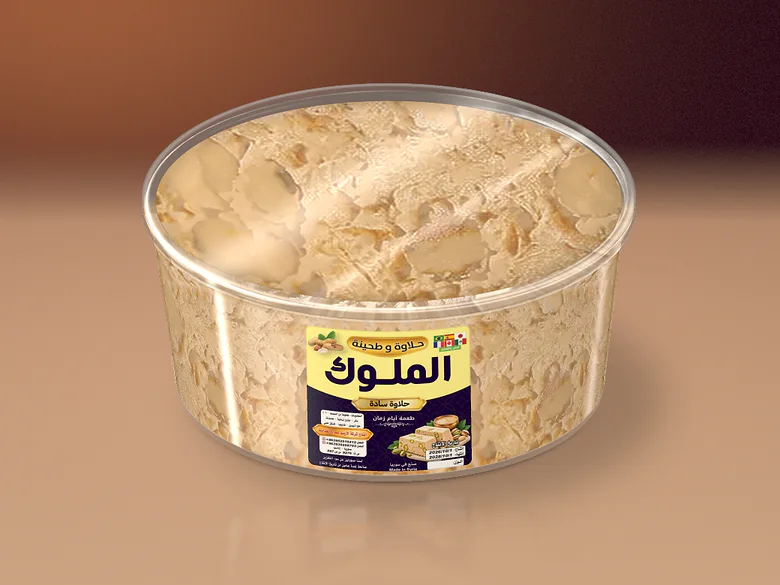
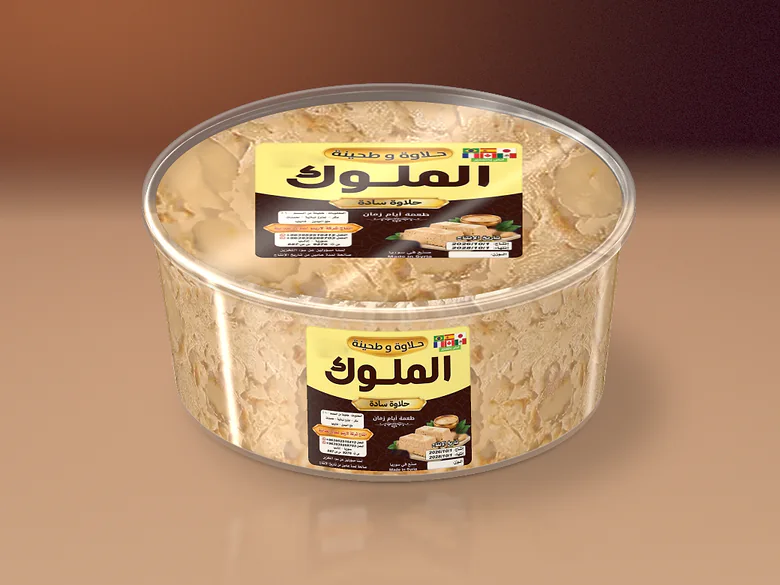
Lid labels, a brown plain Al-Molouk label, and "طحينة" on the tahini jar
- Sealed tubs (Al-Molouk peanut and plain) carry the square label on the
  clear lid too, laid flat in the lid's perspective with the lid's light
  and a laminate sheen, top edge to the back so it reads from the front.
- Plain Al-Molouk label: new chocolate-brown colour (tahini/sesame tone,
  distinct from Larinoo green and Al-Molouk navy); peanut picture removed
  from the corner; "- فستق حلبي" dropped from the printed ingredients;
  pistachios removed from the halva picture.
- Tahini jar: badge text "حلاوة و طحينة" replaced by "طحينة" in the same
  lettering style (dark fill, white outline), badge shape kept.
- Group gallery image rebuilt; alt texts updated.

Claude-Session: https://claude.ai/code/session_018VEN59gGZGc4vHCjc4ytEc

Changed region(s): [[0.3077, 0.2462, 0.6769, 0.4615], [0.4, 0.5538, 0.6154, 0.8]]

diff --git a/index.html b/index.html
@@ -257,7 +257,7 @@
           </article>
           <article class="product-card">
             <div class="product-card__media">
-              <img src="/assets/images/larino-tub-molouk-1040w.webp" srcset="/assets/images/larino-tub-molouk-520w.webp 520w, /assets/images/larino-tub-molouk-780w.webp 780w, /assets/images/larino-tub-molouk-1040w.webp 1040w" sizes="(min-width: 1280px) 598px, (min-width: 640px) 47vw, 100vw" width="1040" height="780" loading="lazy" decoding="async" alt="علبة شفافة مغلقة من حلاوة الملوك بالفستق السوداني وعليها ملصق الملوك">
+              <img src="/assets/images/larino-tub-molouk-1040w.webp" srcset="/assets/images/larino-tub-molouk-520w.webp 520w, /assets/images/larino-tub-molouk-780w.webp 780w, /assets/images/larino-tub-molouk-1040w.webp 1040w" sizes="(min-width: 1280px) 598px, (min-width: 640px) 47vw, 100vw" width="1040" height="780" loading="lazy" decoding="async" alt="علبة شفافة مغلقة من حلاوة الملوك بالفستق السوداني وعلى غطائها وجانبها ملصق الملوك">
             </div>
             <div class="product-card__body">
               <p class="product-card__category">علامة الملوك</p>
@@ -277,14 +277,14 @@
                 data-storage="يُحفظ في مكان بارد وجاف بعيداً عن أشعة الشمس ويُغلق جيداً بعد الفتح، وهو صالح لمدة عامين من تاريخ الإنتاج"
                 data-src="/assets/images/larino-tub-molouk-1040w.webp"
                 data-srcset="/assets/images/larino-tub-molouk-520w.webp 520w, /assets/images/larino-tub-molouk-780w.webp 780w, /assets/images/larino-tub-molouk-1040w.webp 1040w"
-                data-alt="علبة شفافة مغلقة من حلاوة الملوك بالفستق السوداني وعليها ملصق الملوك">
+                data-alt="علبة شفافة مغلقة من حلاوة الملوك بالفستق السوداني وعلى غطائها وجانبها ملصق الملوك">
                 تفاصيل المنتج <svg class="ic ic--16" aria-hidden="true"><use href="#i-arrow-left"/></svg>
               </button>
             </div>
           </article>
           <article class="product-card">
             <div class="product-card__media">
-              <img src="/assets/images/larino-tub-molouk-plain-1040w.webp" srcset="/assets/images/larino-tub-molouk-plain-520w.webp 520w, /assets/images/larino-tub-molouk-plain-780w.webp 780w, /assets/images/larino-tub-molouk-plain-1040w.webp 1040w" sizes="(min-width: 1280px) 598px, (min-width: 640px) 47vw, 100vw" width="1040" height="780" loading="lazy" decoding="async" alt="علبة شفافة مغلقة من حلاوة الملوك السادة وعليها ملصق الملوك">
+              <img src="/assets/images/larino-tub-molouk-plain-1040w.webp" srcset="/assets/images/larino-tub-molouk-plain-520w.webp 520w, /assets/images/larino-tub-molouk-plain-780w.webp 780w, /assets/images/larino-tub-molouk-plain-1040w.webp 1040w" sizes="(min-width: 1280px) 598px, (min-width: 640px) 47vw, 100vw" width="1040" height="780" loading="lazy" decoding="async" alt="علبة شفافة مغلقة من حلاوة الملوك السادة وعلى غطائها وجانبها ملصق الملوك البني">
             </div>
             <div class="product-card__body">
               <p class="product-card__category">علامة الملوك</p>
@@ -304,14 +304,14 @@
                 data-storage="يُحفظ في مكان بارد وجاف بعيداً عن أشعة الشمس ويُغلق جيداً بعد الفتح، وهو صالح لمدة عامين من تاريخ الإنتاج"
                 data-src="/assets/images/larino-tub-molouk-plain-1040w.webp"
                 data-srcset="/assets/images/larino-tub-molouk-plain-520w.webp 520w, /assets/images/larino-tub-molouk-plain-780w.webp 780w, /assets/images/larino-tub-molouk-plain-1040w.webp 1040w"
-                data-alt="علبة شفافة مغلقة من حلاوة الملوك السادة وعليها ملصق الملوك">
+                data-alt="علبة شفافة مغلقة من حلاوة الملوك السادة وعلى غطائها وجانبها ملصق الملوك البني">
                 تفاصيل المنتج <svg class="ic ic--16" aria-hidden="true"><use href="#i-arrow-left"/></svg>
               </button>
             </div>
           </article>
           <article class="product-card">
             <div class="product-card__media">
-              <img src="/assets/images/larino-jar-tahini-1040w.webp" srcset="/assets/images/larino-jar-tahini-520w.webp 520w, /assets/images/larino-jar-tahini-780w.webp 780w, /assets/images/larino-jar-tahini-1040w.webp 1040w" sizes="(min-width: 1280px) 598px, (min-width: 640px) 47vw, 100vw" width="1040" height="780" loading="lazy" decoding="async" alt="مرطبان زجاجي من طحينة السمسم السورية من لارينوو">
+              <img src="/assets/images/larino-jar-tahini-1040w.webp" srcset="/assets/images/larino-jar-tahini-520w.webp 520w, /assets/images/larino-jar-tahini-780w.webp 780w, /assets/images/larino-jar-tahini-1040w.webp 1040w" sizes="(min-width: 1280px) 598px, (min-width: 640px) 47vw, 100vw" width="1040" height="780" loading="lazy" decoding="async" alt="مرطبان زجاجي من طحينة السمسم السورية من لارينوو مكتوب عليه طحينة">
             </div>
             <div class="product-card__body">
               <p class="product-card__category">أساس النكهة</p>
@@ -331,7 +331,7 @@
                 data-storage="يُحفظ في مكان بارد وجاف ويُحرّك قبل الاستخدام ويُغلق جيداً بعد الفتح"
                 data-src="/assets/images/larino-jar-tahini-1040w.webp"
                 data-srcset="/assets/images/larino-jar-tahini-520w.webp 520w, /assets/images/larino-jar-tahini-780w.webp 780w, /assets/images/larino-jar-tahini-1040w.webp 1040w"
-                data-alt="مرطبان زجاجي من طحينة السمسم السورية من لارينوو">
+                data-alt="مرطبان زجاجي من طحينة السمسم السورية من لارينوو مكتوب عليه طحينة">
                 تفاصيل المنتج <svg class="ic ic--16" aria-hidden="true"><use href="#i-arrow-left"/></svg>
               </button>
             </div>
